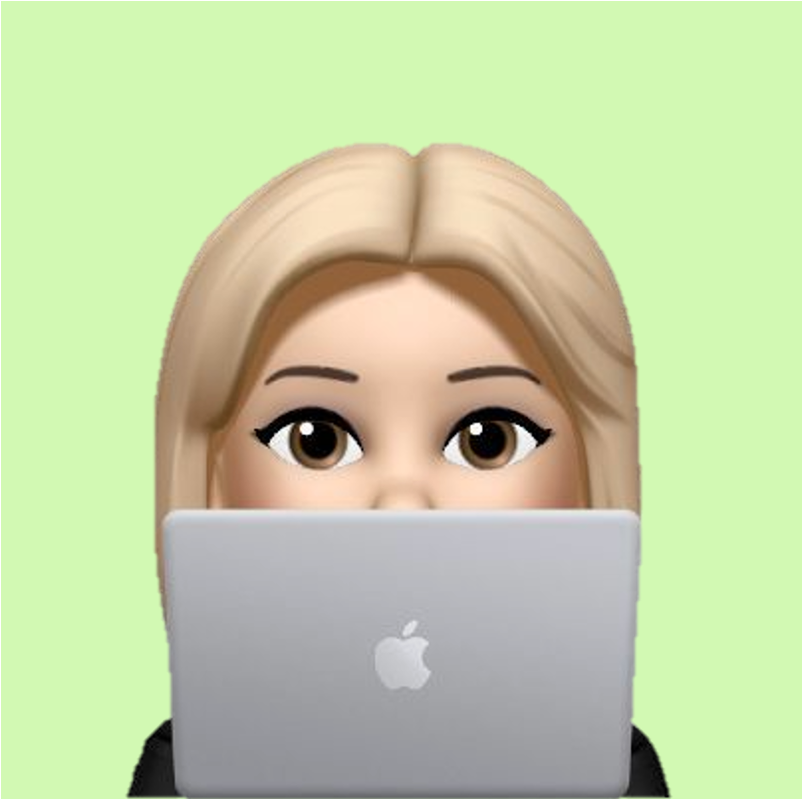
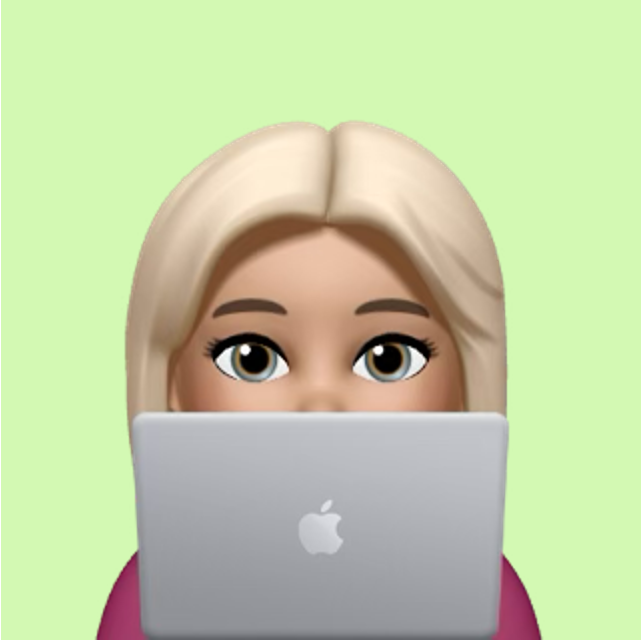
Fikset litt styling, hover-drop

Changed region(s): [[0.1246, 0.1562, 0.8411, 1.0], [0.9969, 0.0, 1.0, 1.0], [0.4984, 0.7812, 0.5296, 0.8125]]

diff --git a/src/app/components/Hero.tsx b/src/app/components/Hero.tsx
@@ -1,18 +1,21 @@
 "use client";
 
 import Image from "next/image";
-import HeroImage from "../assets/Cartoon.png";
+import HeroImage from "../assets/Hero.png";
 import Button from "./Button";
 
 // fikse litt dybde spotblur halvparten av far-diven plassere to? absolute
 export const Hero = () => {
   return (
-    <div className="flex items-center">
+    <div className="flex items-center w-160">
       <div className="grow space-y-4">
-        <p className="font-bold text-4xl bg-gradient-to-r from-white to-state-700 bg-clip-text text-transparent">
-          Nina Flaaten..
+        <p className="font-bold text-4xl bg-gradient-to-r from-white bg-clip-text text-transparent">
+          Nina Flaaten
         </p>
-        <p className="text-3xl">Tekst her...</p>
+        <p className="text-1xl">
+          Lorem ipsum dolor sit amet, consectetur adipiscing elit. Sed do
+          eiusmod tempor incididunt ut labore et dolore magna aliqua.
+        </p>
         <Button
           onClick={() => console.log("Printes når jeg trykker på knappen")}
         >
@@ -23,7 +26,7 @@ export const Hero = () => {
         <Image
           src={HeroImage}
           alt={"beskrivende tekst dersom bildet ikke vises"}
-          className="rounded-full animate-bounce"
+          className="rounded-full animate-bounce [animation-duration:5s]"
           width={200}
           height={200}
         />

diff --git a/src/app/components/Navlinks.tsx b/src/app/components/Navlinks.tsx
@@ -1,7 +1,6 @@
 import Link from "next/link";
 import React from "react";
 
-
 import { Link as CustomLink } from "./Navbar";
 
 export interface NavlinksProps {
@@ -11,10 +10,15 @@ export interface NavlinksProps {
 export function Navlinks({ links }: NavlinksProps) {
   return (
     <div className="grow flex justify-end gap-5 pr-5 text-2xl max-sm:hidden">
-    
-      {links.map((link) => {
-        return <Link href={link.href}>{link.title}</Link>;
-      })}
+      {links.map((link) => (
+        <Link
+          key={link.href}
+          href={link.href}
+          className="hover:text-red-200 transition-colors hover-drop focus:text-red-300 font-bold"
+        >
+          {link.title}
+        </Link>
+      ))}
     </div>
   );
 }

diff --git a/src/app/components/MobileNavlinks.tsx b/src/app/components/MobileNavlinks.tsx
@@ -20,7 +20,7 @@ export function MobileNavlinks({ links }: NavlinksProps) {
       />{" "}
       {/* !open motsatt av open verdi*/}
       {open && (
-        <div className="absolute z-10 flex flex-col bg-emerald-500 rounded-lg p-3 pl-4 top-10">
+        <div className="absolute z-10 flex flex-col bg-emerald-500 rounded-lg p-3 pl-4 top-10 ">
           {links.map((link) => {
             return <Link href={link.href}>{link.title}</Link>;
           })}

diff --git a/src/app/globals.css b/src/app/globals.css
@@ -1,7 +1,7 @@
 @import "tailwindcss";
 
 :root {
-  --background: #d6376c;
+  --background: #aa647b;
   --foreground: #ffffff;
 }
 
@@ -23,4 +23,11 @@ body {
   background: var(--background);
   color: var(--foreground);
   font-family: Arial, Helvetica, sans-serif;
+}
+
+/* Dine custom Tailwind utilities */
+@layer utilities {
+  .hover-drop {
+    @apply transition transform hover:translate-y-0.5;
+  }
 }

diff --git a/src/app/components/Button.tsx b/src/app/components/Button.tsx
@@ -21,7 +21,7 @@ const Button = forwardRef<HTMLButtonElement, ButtonProps>(
       <button
         ref={ref}
         onClick={onClick}
-        className={`bg-black hover:cursor-pointer hover:bg-gray-600 rounded-full w-20 ${className}`}
+        className={`bg-cyan-700 hover:cursor-pointer hover:bg-cyan-800 hover-drop rounded-full w-20 ${className}`}
         {...props}
       >
         {children}

diff --git a/src/app/components/Navbar.tsx b/src/app/components/Navbar.tsx
@@ -28,7 +28,7 @@ const navBarLinks: Link[] = [
 
 export function Navbar() {
   return (
-    <div className=" flex p-3 w-full mb-20">
+    <div className=" flex p-3 w-full mb-20 ">
       <p className=" grow font-bold text-4xl">Portifolio</p>
       <Navlinks links={navBarLinks}></Navlinks>
       <MobileNavlinks links={navBarLinks}></MobileNavlinks>
